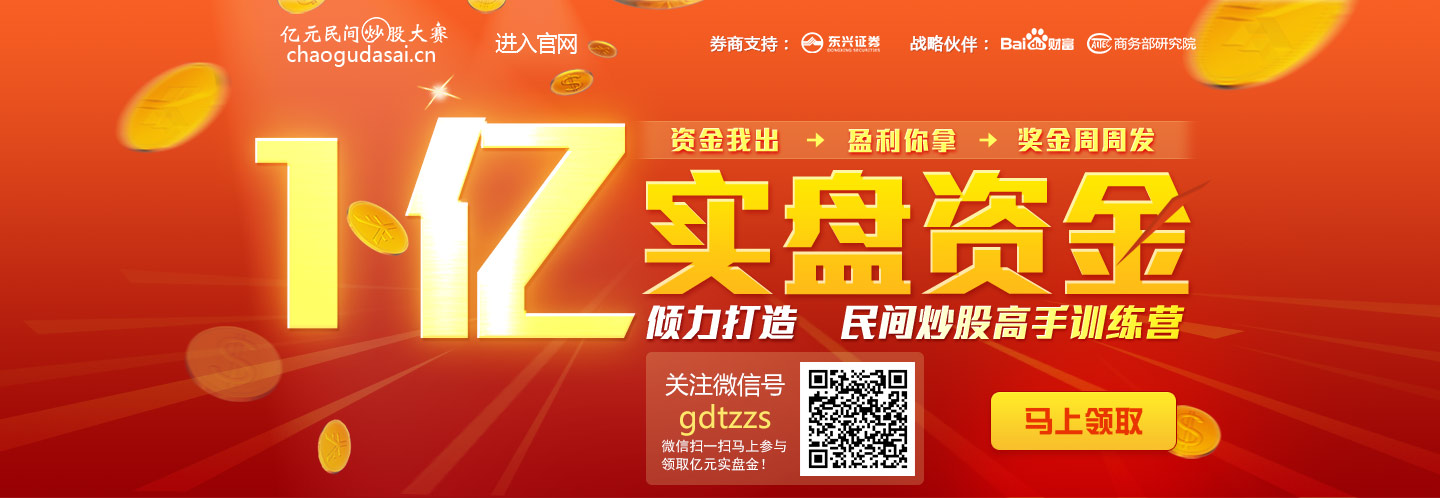
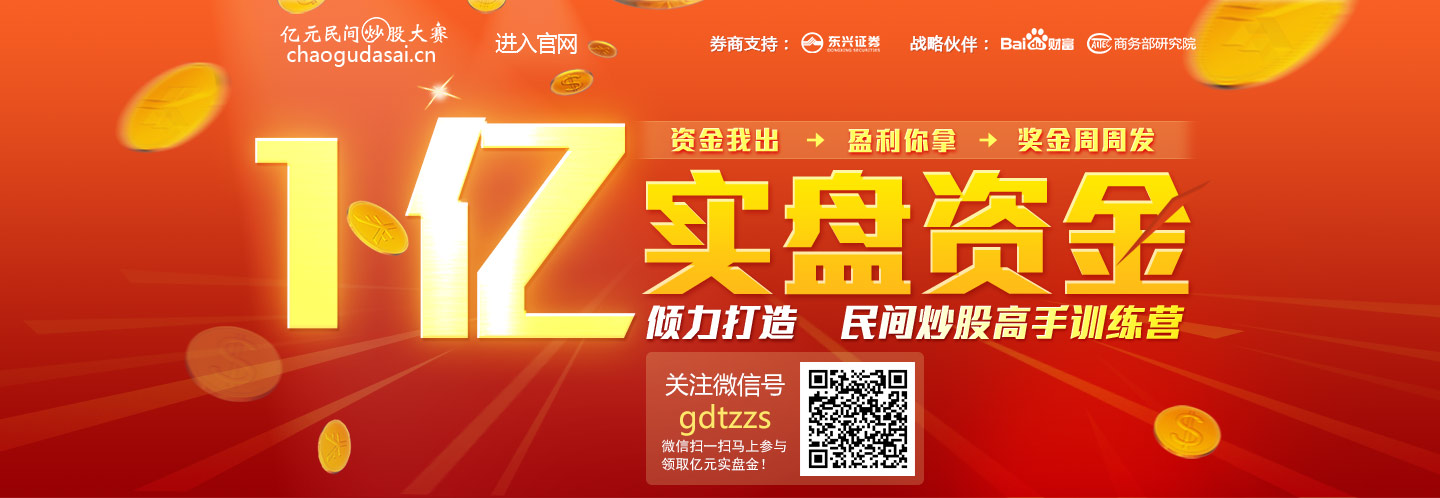
Signed-off-by: Fengsheng Li <lifengsheng@uniwa.cn>

Changed region(s): [[0.6875, 0.7831, 0.8438, 0.9337]]

diff --git a/炒股大赛PC/baidu推广 0619 - 副本/baidu.html b/炒股大赛PC/baidu推广 0619 - 副本/baidu.html
@@ -160,7 +160,7 @@ li {
 
 <body>
 <div class="main">
-  <div class="pic2"><div><a target="_blank" href="http://www.chaogudasai.cn"></a><a href="#" class="liketiyan"></a></div></div>
+  <div class="pic2"><div><a target="_blank" href="http://www.chaogudasai.cn"></a><a href="#" class="liketiyan"><img src="images/baom-yellow2.gif" /></a></div></div>
   <div class="pic3"><a></a></div>
   <div class="pic4"><a></a></div>
   <div class="pic5"><div><a></a><a href="#" class="liketiyan"><img src="images/yingqujiangjin.gif" /></a></div></div>
